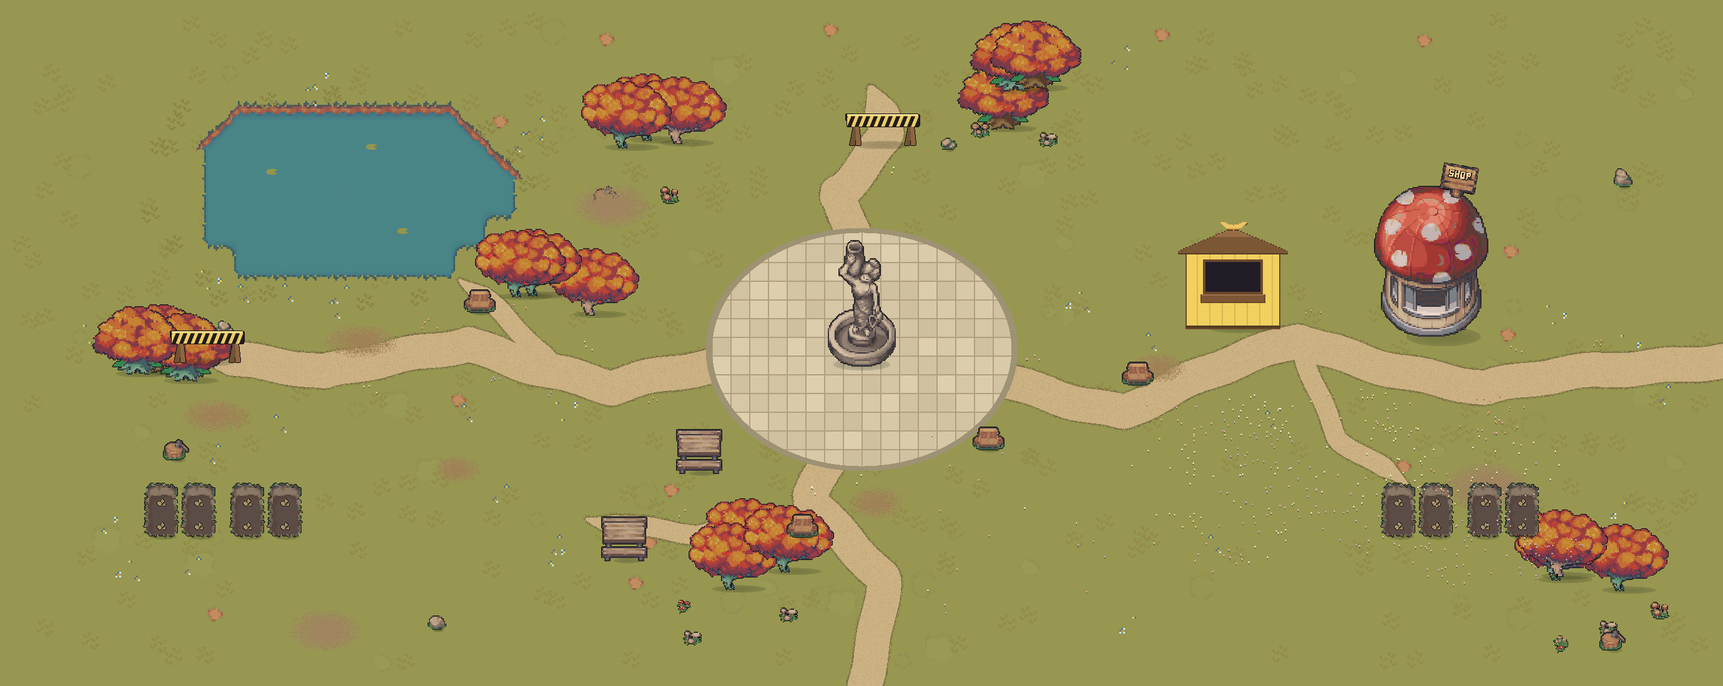
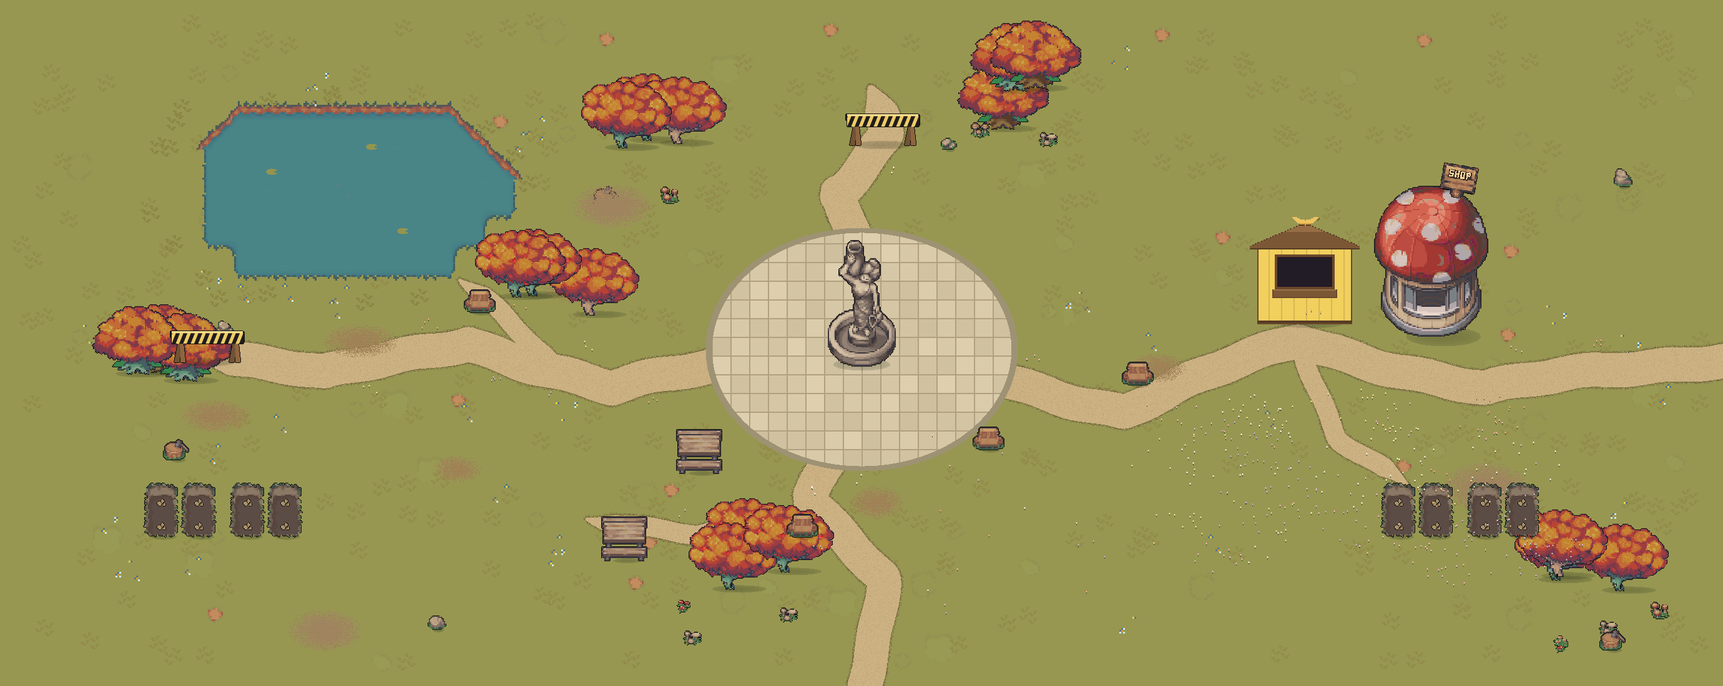
Stand moved to the east road's northward crest (MARKET.stand 1975,528 -> 2090,520; single-knob move - plates/geo/collider/keeper-window/sparkle/tap all follow; weed grid re-flowed)

Changed region(s): [[0.6855, 0.3091, 0.8101, 0.4945]]

diff --git a/src/scripts/park-geo.js b/src/scripts/park-geo.js
@@ -6,14 +6,14 @@ export const PLAZA = { x: 1380, y: 560, rx: 250, ry: 195 };
 export const ROAD_W = 88;
 export const POND = { x: 555, y: 315, rx: 265, ry: 150 };
 export const FOUNTAIN = [1380, 590, 109, 218, 6];
-export const MARKET = { stand: [1975, 528], cart: [2300, 545] };
+export const MARKET = { stand: [2090, 520], cart: [2300, 545] };
 export const SIGNS = [[332, 584], [1414, 236]];
 export const OLDBENCH = [1583, 722];
 export const MEADOW = [1860, 640, 2500, 940];
 export const PLOTS = [[2240, 800], [2240, 838], [2300, 800], [2300, 838], [2378, 800], [2378, 838], [2438, 800], [2438, 838], [258, 800], [258, 838], [318, 800], [318, 838], [396, 800], [396, 838], [456, 800], [456, 838]];
 export const DOORS = { south: { x: 1380, y: 1060 }, east: { x: 2700, y: 560 } };
-export const OB_RECTS = [[247, 562, 273, 598], [284, 576, 310, 612], [207, 565, 233, 601], [1029, 190, 1055, 226], [1078, 195, 1104, 231], [990, 202, 1016, 238], [1188, 871, 1214, 907], [1162, 910, 1188, 946], [1250, 882, 1276, 918], [1593, 172, 1619, 208], [1613, 111, 1639, 147], [1645, 107, 1671, 143], [2587, 912, 2613, 948], [2485, 895, 2511, 931], [2490, 889, 2516, 925], [938, 470, 964, 506], [846, 439, 872, 475], [820, 441, 846, 477], [1891, 472, 2059, 534], [2200, 487, 2400, 551], [2212, 812, 2268, 866], [2272, 812, 2328, 866], [2350, 812, 2406, 866], [2410, 812, 2466, 866], [230, 812, 286, 866], [290, 812, 346, 866], [368, 812, 424, 866], [428, 812, 484, 866], [1076, 730, 1164, 766], [956, 870, 1044, 906], [734, 484, 802, 506], [1788, 600, 1856, 622], [1251, 844, 1319, 866], [1549, 704, 1617, 726], [288, 566, 376, 588], [1370, 218, 1458, 240]];
+export const OB_RECTS = [[247, 562, 273, 598], [284, 576, 310, 612], [207, 565, 233, 601], [1029, 190, 1055, 226], [1078, 195, 1104, 231], [990, 202, 1016, 238], [1188, 871, 1214, 907], [1162, 910, 1188, 946], [1250, 882, 1276, 918], [1593, 172, 1619, 208], [1613, 111, 1639, 147], [1645, 107, 1671, 143], [2587, 912, 2613, 948], [2485, 895, 2511, 931], [2490, 889, 2516, 925], [938, 470, 964, 506], [846, 439, 872, 475], [820, 441, 846, 477], [2006, 464, 2174, 526], [2200, 487, 2400, 551], [2212, 812, 2268, 866], [2272, 812, 2328, 866], [2350, 812, 2406, 866], [2410, 812, 2466, 866], [230, 812, 286, 866], [290, 812, 346, 866], [368, 812, 424, 866], [428, 812, 484, 866], [1076, 730, 1164, 766], [956, 870, 1044, 906], [734, 484, 802, 506], [1788, 600, 1856, 622], [1251, 844, 1319, 866], [1549, 704, 1617, 726], [288, 566, 376, 588], [1370, 218, 1458, 240]];
 export const OB_CIRCLES = [[970, 332, 20], [2583, 1043, 20], [282, 738, 20], [1380, 570, 39], [360, 540, 20], [2600, 300, 20], [1520, 240, 20], [700, 1010, 20]];
-export const OVERLAYS = [['ov-0.png', 187, 488, 147, 110, 598], ['ov-1.png', 224, 502, 147, 110, 612], ['ov-2.png', 147, 491, 147, 110, 601], ['ov-3.png', 970, 118, 145, 108, 226], ['ov-4.png', 1019, 123, 145, 108, 231], ['ov-5.png', 931, 130, 145, 108, 238], ['ov-6.png', 1129, 799, 145, 108, 907], ['ov-7.png', 1103, 838, 145, 108, 946], ['ov-8.png', 1191, 810, 145, 108, 918], ['ov-9.png', 1533, 98, 147, 110, 208], ['ov-10.png', 1553, 37, 147, 110, 147], ['ov-11.png', 1585, 33, 147, 110, 143], ['ov-12.png', 2528, 840, 145, 108, 948], ['ov-13.png', 2426, 823, 145, 108, 931], ['ov-14.png', 2431, 817, 145, 108, 925], ['ov-15.png', 879, 398, 145, 108, 506], ['ov-16.png', 787, 367, 145, 108, 475], ['ov-17.png', 761, 369, 145, 108, 477], ['ov-18.png', 1887, 356, 176, 172, 528], ['ov-19.png', 2201, 260, 199, 285, 545], ['ov-20.png', 1083, 688, 74, 72, 760], ['ov-21.png', 963, 828, 74, 72, 900]];
+export const OVERLAYS = [['ov-0.png', 187, 488, 147, 110, 598], ['ov-1.png', 224, 502, 147, 110, 612], ['ov-2.png', 147, 491, 147, 110, 601], ['ov-3.png', 970, 118, 145, 108, 226], ['ov-4.png', 1019, 123, 145, 108, 231], ['ov-5.png', 931, 130, 145, 108, 238], ['ov-6.png', 1129, 799, 145, 108, 907], ['ov-7.png', 1103, 838, 145, 108, 946], ['ov-8.png', 1191, 810, 145, 108, 918], ['ov-9.png', 1533, 98, 147, 110, 208], ['ov-10.png', 1553, 37, 147, 110, 147], ['ov-11.png', 1585, 33, 147, 110, 143], ['ov-12.png', 2528, 840, 145, 108, 948], ['ov-13.png', 2426, 823, 145, 108, 931], ['ov-14.png', 2431, 817, 145, 108, 925], ['ov-15.png', 879, 398, 145, 108, 506], ['ov-16.png', 787, 367, 145, 108, 475], ['ov-17.png', 761, 369, 145, 108, 477], ['ov-18.png', 2002, 348, 176, 172, 520], ['ov-19.png', 2201, 260, 199, 285, 545], ['ov-20.png', 1083, 688, 74, 72, 760], ['ov-21.png', 963, 828, 74, 72, 900]];
 export const TREE_OVS = [0, 1, 2, 3, 4, 5, 6, 7, 8, 9, 10, 11, 12, 13, 14, 15, 16, 17];
-export const WEED_GRID = [[120,120],[168,120],[216,120],[264,120],[312,120],[360,120],[408,120],[456,120],[648,120],[696,120],[744,120],[792,120],[840,120],[888,120],[936,120],[984,120],[1032,120],[1080,120],[1128,120],[1176,120],[1224,120],[1272,120],[1320,120],[1464,120],[1512,120],[1560,120],[1704,120],[1752,120],[1800,120],[1848,120],[1896,120],[1944,120],[1992,120],[2040,120],[2088,120],[2136,120],[2184,120],[2232,120],[2280,120],[2328,120],[2376,120],[2424,120],[2472,120],[2520,120],[2568,120],[2616,120],[120,168],[168,168],[216,168],[264,168],[312,168],[792,168],[840,168],[888,168],[936,168],[984,168],[1032,168],[1080,168],[1128,168],[1176,168],[1224,168],[1272,168],[1320,168],[1512,168],[1560,168],[1656,168],[1704,168],[1752,168],[1800,168],[1848,168],[1896,168],[1944,168],[1992,168],[2040,168],[2088,168],[2136,168],[2184,168],[2232,168],[2280,168],[2328,168],[2376,168],[2424,168],[2472,168],[2520,168],[2568,168],[2616,168],[120,216],[168,216],[216,216],[264,216],[840,216],[888,216],[936,216],[1128,216],[1176,216],[1224,216],[1272,216],[1320,216],[1560,216],[1656,216],[1704,216],[1752,216],[1800,216],[1848,216],[1896,216],[1944,216],[1992,216],[2040,216],[2088,216],[2136,216],[2184,216],[2232,216],[2280,216],[2328,216],[2376,216],[2424,216],[2472,216],[2520,216],[2568,216],[2616,216],[120,264],[168,264],[216,264],[888,264],[936,264],[984,264],[1032,264],[1080,264],[1128,264],[1176,264],[1224,264],[1272,264],[1464,264],[1560,264],[1608,264],[1656,264],[1704,264],[1752,264],[1800,264],[1848,264],[1896,264],[1944,264],[1992,264],[2040,264],[2088,264],[2136,264],[2184,264],[2232,264],[2280,264],[2328,264],[2376,264],[2424,264],[2472,264],[2520,264],[2568,264],[2616,264],[120,312],[168,312],[216,312],[888,312],[936,312],[1032,312],[1080,312],[1128,312],[1176,312],[1224,312],[1272,312],[1464,312],[1512,312],[1560,312],[1608,312],[1656,312],[1704,312],[1752,312],[1800,312],[1848,312],[1896,312],[1944,312],[1992,312],[2040,312],[2088,312],[2136,312],[2184,312],[2232,312],[2280,312],[2328,312],[2376,312],[2424,312],[2472,312],[2520,312],[120,360],[168,360],[216,360],[888,360],[936,360],[1032,360],[1080,360],[1128,360],[1176,360],[1224,360],[1560,360],[1608,360],[1656,360],[1704,360],[1752,360],[1800,360],[1848,360],[1896,360],[1944,360],[1992,360],[2040,360],[2088,360],[2136,360],[2184,360],[2232,360],[2280,360],[2328,360],[2376,360],[2424,360],[2472,360],[2520,360],[2568,360],[2616,360],[120,408],[168,408],[216,408],[264,408],[840,408],[888,408],[936,408],[984,408],[1032,408],[1080,408],[1128,408],[1608,408],[1656,408],[1704,408],[1752,408],[1800,408],[1848,408],[1896,408],[1944,408],[1992,408],[2040,408],[2088,408],[2136,408],[2184,408],[2232,408],[2280,408],[2328,408],[2376,408],[2424,408],[2472,408],[2520,408],[2568,408],[2616,408],[120,456],[168,456],[216,456],[264,456],[312,456],[984,456],[1032,456],[1080,456],[1656,456],[1704,456],[1752,456],[1800,456],[1848,456],[2088,456],[2136,456],[2184,456],[2232,456],[2280,456],[2328,456],[2376,456],[2424,456],[2472,456],[2520,456],[2568,456],[2616,456],[120,504],[168,504],[216,504],[264,504],[312,504],[360,504],[408,504],[888,504],[984,504],[1032,504],[1080,504],[1704,504],[1752,504],[1800,504],[1848,504],[2424,504],[2472,504],[2520,504],[2568,504],[2616,504],[120,552],[168,552],[984,552],[1704,552],[1752,552],[1800,552],[1848,552],[2424,552],[120,600],[168,600],[120,648],[168,648],[216,648],[264,648],[312,648],[360,648],[408,648],[456,648],[600,648],[648,648],[696,648],[744,648],[792,648],[840,648],[1992,648],[2040,648],[2184,648],[120,696],[168,696],[216,696],[264,696],[312,696],[360,696],[408,696],[456,696],[504,696],[552,696],[600,696],[648,696],[696,696],[744,696],[792,696],[840,696],[888,696],[936,696],[984,696],[1032,696],[1080,696],[1128,696],[1656,696],[1896,696],[1944,696],[1992,696],[2040,696],[2232,696],[2280,696],[2328,696],[2376,696],[2424,696],[2472,696],[2520,696],[2568,696],[2616,696],[120,744],[168,744],[216,744],[360,744],[408,744],[456,744],[504,744],[552,744],[600,744],[648,744],[696,744],[744,744],[792,744],[840,744],[888,744],[936,744],[984,744],[1032,744],[1608,744],[1656,744],[1704,744],[1752,744],[1800,744],[1848,744],[1896,744],[1944,744],[1992,744],[2040,744],[2088,744],[2280,744],[2328,744],[2376,744],[2424,744],[2472,744],[2520,744],[2568,744],[2616,744],[120,792],[168,792],[552,792],[600,792],[648,792],[696,792],[744,792],[792,792],[840,792],[888,792],[936,792],[984,792],[1032,792],[1080,792],[1128,792],[1176,792],[1224,792],[1464,792],[1512,792],[1560,792],[1608,792],[1656,792],[1704,792],[1752,792],[1800,792],[1848,792],[1896,792],[1944,792],[1992,792],[2040,792],[2088,792],[2136,792],[2520,792],[2568,792],[2616,792],[120,840],[168,840],[552,840],[600,840],[648,840],[696,840],[744,840],[792,840],[840,840],[888,840],[1464,840],[1512,840],[1560,840],[1608,840],[1656,840],[1704,840],[1752,840],[1800,840],[1848,840],[1896,840],[1944,840],[1992,840],[2040,840],[2088,840],[2136,840],[2520,840],[2568,840],[2616,840],[120,888],[168,888],[552,888],[600,888],[648,888],[696,888],[744,888],[792,888],[840,888],[888,888],[936,888],[1512,888],[1560,888],[1608,888],[1656,888],[1704,888],[1752,888],[1800,888],[1848,888],[1896,888],[1944,888],[1992,888],[2040,888],[2088,888],[2136,888],[2568,888],[2616,888],[120,936],[168,936],[216,936],[264,936],[312,936],[360,936],[408,936],[456,936],[504,936],[552,936],[600,936],[648,936],[696,936],[744,936],[792,936],[840,936],[888,936],[936,936],[984,936],[1032,936],[1080,936],[1128,936],[1224,936],[1272,936],[1320,936],[1512,936],[1560,936],[1608,936],[1656,936],[1704,936],[1752,936],[1800,936],[1848,936],[1896,936],[1944,936],[1992,936],[2040,936],[2088,936],[2136,936],[2184,936],[2232,936],[2280,936],[2328,936],[2376,936],[2424,936],[2568,936]];
+export const WEED_GRID = [[120,120],[168,120],[216,120],[264,120],[312,120],[360,120],[408,120],[456,120],[648,120],[696,120],[744,120],[792,120],[840,120],[888,120],[936,120],[984,120],[1032,120],[1080,120],[1128,120],[1176,120],[1224,120],[1272,120],[1320,120],[1464,120],[1512,120],[1560,120],[1704,120],[1752,120],[1800,120],[1848,120],[1896,120],[1944,120],[1992,120],[2040,120],[2088,120],[2136,120],[2184,120],[2232,120],[2280,120],[2328,120],[2376,120],[2424,120],[2472,120],[2520,120],[2568,120],[2616,120],[120,168],[168,168],[216,168],[264,168],[312,168],[792,168],[840,168],[888,168],[936,168],[984,168],[1032,168],[1080,168],[1128,168],[1176,168],[1224,168],[1272,168],[1320,168],[1512,168],[1560,168],[1656,168],[1704,168],[1752,168],[1800,168],[1848,168],[1896,168],[1944,168],[1992,168],[2040,168],[2088,168],[2136,168],[2184,168],[2232,168],[2280,168],[2328,168],[2376,168],[2424,168],[2472,168],[2520,168],[2568,168],[2616,168],[120,216],[168,216],[216,216],[264,216],[840,216],[888,216],[936,216],[1128,216],[1176,216],[1224,216],[1272,216],[1320,216],[1560,216],[1656,216],[1704,216],[1752,216],[1800,216],[1848,216],[1896,216],[1944,216],[1992,216],[2040,216],[2088,216],[2136,216],[2184,216],[2232,216],[2280,216],[2328,216],[2376,216],[2424,216],[2472,216],[2520,216],[2568,216],[2616,216],[120,264],[168,264],[216,264],[888,264],[936,264],[984,264],[1032,264],[1080,264],[1128,264],[1176,264],[1224,264],[1272,264],[1464,264],[1560,264],[1608,264],[1656,264],[1704,264],[1752,264],[1800,264],[1848,264],[1896,264],[1944,264],[1992,264],[2040,264],[2088,264],[2136,264],[2184,264],[2232,264],[2280,264],[2328,264],[2376,264],[2424,264],[2472,264],[2520,264],[2568,264],[2616,264],[120,312],[168,312],[216,312],[888,312],[936,312],[1032,312],[1080,312],[1128,312],[1176,312],[1224,312],[1272,312],[1464,312],[1512,312],[1560,312],[1608,312],[1656,312],[1704,312],[1752,312],[1800,312],[1848,312],[1896,312],[1944,312],[1992,312],[2040,312],[2088,312],[2136,312],[2184,312],[2232,312],[2280,312],[2328,312],[2376,312],[2424,312],[2472,312],[2520,312],[120,360],[168,360],[216,360],[888,360],[936,360],[1032,360],[1080,360],[1128,360],[1176,360],[1224,360],[1560,360],[1608,360],[1656,360],[1704,360],[1752,360],[1800,360],[1848,360],[1896,360],[1944,360],[1992,360],[2040,360],[2088,360],[2136,360],[2184,360],[2232,360],[2280,360],[2328,360],[2376,360],[2424,360],[2472,360],[2520,360],[2568,360],[2616,360],[120,408],[168,408],[216,408],[264,408],[840,408],[888,408],[936,408],[984,408],[1032,408],[1080,408],[1128,408],[1608,408],[1656,408],[1704,408],[1752,408],[1800,408],[1848,408],[1896,408],[1944,408],[1992,408],[2040,408],[2088,408],[2136,408],[2184,408],[2232,408],[2280,408],[2328,408],[2376,408],[2424,408],[2472,408],[2520,408],[2568,408],[2616,408],[120,456],[168,456],[216,456],[264,456],[312,456],[984,456],[1032,456],[1080,456],[1656,456],[1704,456],[1752,456],[1800,456],[1848,456],[1896,456],[1944,456],[2232,456],[2280,456],[2328,456],[2376,456],[2424,456],[2472,456],[2520,456],[2568,456],[2616,456],[120,504],[168,504],[216,504],[264,504],[312,504],[360,504],[408,504],[888,504],[984,504],[1032,504],[1080,504],[1704,504],[1752,504],[1800,504],[1848,504],[1896,504],[1944,504],[2424,504],[2472,504],[2520,504],[2568,504],[2616,504],[120,552],[168,552],[984,552],[1704,552],[1752,552],[1800,552],[1848,552],[2424,552],[120,600],[168,600],[120,648],[168,648],[216,648],[264,648],[312,648],[360,648],[408,648],[456,648],[600,648],[648,648],[696,648],[744,648],[792,648],[840,648],[1992,648],[2040,648],[2184,648],[120,696],[168,696],[216,696],[264,696],[312,696],[360,696],[408,696],[456,696],[504,696],[552,696],[600,696],[648,696],[696,696],[744,696],[792,696],[840,696],[888,696],[936,696],[984,696],[1032,696],[1080,696],[1128,696],[1656,696],[1896,696],[1944,696],[1992,696],[2040,696],[2232,696],[2280,696],[2328,696],[2376,696],[2424,696],[2472,696],[2520,696],[2568,696],[2616,696],[120,744],[168,744],[216,744],[360,744],[408,744],[456,744],[504,744],[552,744],[600,744],[648,744],[696,744],[744,744],[792,744],[840,744],[888,744],[936,744],[984,744],[1032,744],[1608,744],[1656,744],[1704,744],[1752,744],[1800,744],[1848,744],[1896,744],[1944,744],[1992,744],[2040,744],[2088,744],[2280,744],[2328,744],[2376,744],[2424,744],[2472,744],[2520,744],[2568,744],[2616,744],[120,792],[168,792],[552,792],[600,792],[648,792],[696,792],[744,792],[792,792],[840,792],[888,792],[936,792],[984,792],[1032,792],[1080,792],[1128,792],[1176,792],[1224,792],[1464,792],[1512,792],[1560,792],[1608,792],[1656,792],[1704,792],[1752,792],[1800,792],[1848,792],[1896,792],[1944,792],[1992,792],[2040,792],[2088,792],[2136,792],[2520,792],[2568,792],[2616,792],[120,840],[168,840],[552,840],[600,840],[648,840],[696,840],[744,840],[792,840],[840,840],[888,840],[1464,840],[1512,840],[1560,840],[1608,840],[1656,840],[1704,840],[1752,840],[1800,840],[1848,840],[1896,840],[1944,840],[1992,840],[2040,840],[2088,840],[2136,840],[2520,840],[2568,840],[2616,840],[120,888],[168,888],[552,888],[600,888],[648,888],[696,888],[744,888],[792,888],[840,888],[888,888],[936,888],[1512,888],[1560,888],[1608,888],[1656,888],[1704,888],[1752,888],[1800,888],[1848,888],[1896,888],[1944,888],[1992,888],[2040,888],[2088,888],[2136,888],[2568,888],[2616,888],[120,936],[168,936],[216,936],[264,936],[312,936],[360,936],[408,936],[456,936],[504,936],[552,936],[600,936],[648,936],[696,936],[744,936],[792,936],[840,936],[888,936],[936,936],[984,936],[1032,936],[1080,936],[1128,936],[1224,936],[1272,936],[1320,936],[1512,936],[1560,936],[1608,936],[1656,936],[1704,936],[1752,936],[1800,936],[1848,936],[1896,936],[1944,936],[1992,936],[2040,936],[2088,936],[2136,936],[2184,936],[2232,936],[2280,936],[2328,936],[2376,936],[2424,936],[2568,936]];

diff --git a/worker-rave/src/park-weed-grid.js b/worker-rave/src/park-weed-grid.js
@@ -1,3 +1,3 @@
 // GENERATED by tools/build-park-scene.py — the park weed lattice.
 // DO NOT EDIT (twin of WEED_GRID in src/scripts/park-geo.js).
-export const WEED_GRID = [[120,120],[168,120],[216,120],[264,120],[312,120],[360,120],[408,120],[456,120],[648,120],[696,120],[744,120],[792,120],[840,120],[888,120],[936,120],[984,120],[1032,120],[1080,120],[1128,120],[1176,120],[1224,120],[1272,120],[1320,120],[1464,120],[1512,120],[1560,120],[1704,120],[1752,120],[1800,120],[1848,120],[1896,120],[1944,120],[1992,120],[2040,120],[2088,120],[2136,120],[2184,120],[2232,120],[2280,120],[2328,120],[2376,120],[2424,120],[2472,120],[2520,120],[2568,120],[2616,120],[120,168],[168,168],[216,168],[264,168],[312,168],[792,168],[840,168],[888,168],[936,168],[984,168],[1032,168],[1080,168],[1128,168],[1176,168],[1224,168],[1272,168],[1320,168],[1512,168],[1560,168],[1656,168],[1704,168],[1752,168],[1800,168],[1848,168],[1896,168],[1944,168],[1992,168],[2040,168],[2088,168],[2136,168],[2184,168],[2232,168],[2280,168],[2328,168],[2376,168],[2424,168],[2472,168],[2520,168],[2568,168],[2616,168],[120,216],[168,216],[216,216],[264,216],[840,216],[888,216],[936,216],[1128,216],[1176,216],[1224,216],[1272,216],[1320,216],[1560,216],[1656,216],[1704,216],[1752,216],[1800,216],[1848,216],[1896,216],[1944,216],[1992,216],[2040,216],[2088,216],[2136,216],[2184,216],[2232,216],[2280,216],[2328,216],[2376,216],[2424,216],[2472,216],[2520,216],[2568,216],[2616,216],[120,264],[168,264],[216,264],[888,264],[936,264],[984,264],[1032,264],[1080,264],[1128,264],[1176,264],[1224,264],[1272,264],[1464,264],[1560,264],[1608,264],[1656,264],[1704,264],[1752,264],[1800,264],[1848,264],[1896,264],[1944,264],[1992,264],[2040,264],[2088,264],[2136,264],[2184,264],[2232,264],[2280,264],[2328,264],[2376,264],[2424,264],[2472,264],[2520,264],[2568,264],[2616,264],[120,312],[168,312],[216,312],[888,312],[936,312],[1032,312],[1080,312],[1128,312],[1176,312],[1224,312],[1272,312],[1464,312],[1512,312],[1560,312],[1608,312],[1656,312],[1704,312],[1752,312],[1800,312],[1848,312],[1896,312],[1944,312],[1992,312],[2040,312],[2088,312],[2136,312],[2184,312],[2232,312],[2280,312],[2328,312],[2376,312],[2424,312],[2472,312],[2520,312],[120,360],[168,360],[216,360],[888,360],[936,360],[1032,360],[1080,360],[1128,360],[1176,360],[1224,360],[1560,360],[1608,360],[1656,360],[1704,360],[1752,360],[1800,360],[1848,360],[1896,360],[1944,360],[1992,360],[2040,360],[2088,360],[2136,360],[2184,360],[2232,360],[2280,360],[2328,360],[2376,360],[2424,360],[2472,360],[2520,360],[2568,360],[2616,360],[120,408],[168,408],[216,408],[264,408],[840,408],[888,408],[936,408],[984,408],[1032,408],[1080,408],[1128,408],[1608,408],[1656,408],[1704,408],[1752,408],[1800,408],[1848,408],[1896,408],[1944,408],[1992,408],[2040,408],[2088,408],[2136,408],[2184,408],[2232,408],[2280,408],[2328,408],[2376,408],[2424,408],[2472,408],[2520,408],[2568,408],[2616,408],[120,456],[168,456],[216,456],[264,456],[312,456],[984,456],[1032,456],[1080,456],[1656,456],[1704,456],[1752,456],[1800,456],[1848,456],[2088,456],[2136,456],[2184,456],[2232,456],[2280,456],[2328,456],[2376,456],[2424,456],[2472,456],[2520,456],[2568,456],[2616,456],[120,504],[168,504],[216,504],[264,504],[312,504],[360,504],[408,504],[888,504],[984,504],[1032,504],[1080,504],[1704,504],[1752,504],[1800,504],[1848,504],[2424,504],[2472,504],[2520,504],[2568,504],[2616,504],[120,552],[168,552],[984,552],[1704,552],[1752,552],[1800,552],[1848,552],[2424,552],[120,600],[168,600],[120,648],[168,648],[216,648],[264,648],[312,648],[360,648],[408,648],[456,648],[600,648],[648,648],[696,648],[744,648],[792,648],[840,648],[1992,648],[2040,648],[2184,648],[120,696],[168,696],[216,696],[264,696],[312,696],[360,696],[408,696],[456,696],[504,696],[552,696],[600,696],[648,696],[696,696],[744,696],[792,696],[840,696],[888,696],[936,696],[984,696],[1032,696],[1080,696],[1128,696],[1656,696],[1896,696],[1944,696],[1992,696],[2040,696],[2232,696],[2280,696],[2328,696],[2376,696],[2424,696],[2472,696],[2520,696],[2568,696],[2616,696],[120,744],[168,744],[216,744],[360,744],[408,744],[456,744],[504,744],[552,744],[600,744],[648,744],[696,744],[744,744],[792,744],[840,744],[888,744],[936,744],[984,744],[1032,744],[1608,744],[1656,744],[1704,744],[1752,744],[1800,744],[1848,744],[1896,744],[1944,744],[1992,744],[2040,744],[2088,744],[2280,744],[2328,744],[2376,744],[2424,744],[2472,744],[2520,744],[2568,744],[2616,744],[120,792],[168,792],[552,792],[600,792],[648,792],[696,792],[744,792],[792,792],[840,792],[888,792],[936,792],[984,792],[1032,792],[1080,792],[1128,792],[1176,792],[1224,792],[1464,792],[1512,792],[1560,792],[1608,792],[1656,792],[1704,792],[1752,792],[1800,792],[1848,792],[1896,792],[1944,792],[1992,792],[2040,792],[2088,792],[2136,792],[2520,792],[2568,792],[2616,792],[120,840],[168,840],[552,840],[600,840],[648,840],[696,840],[744,840],[792,840],[840,840],[888,840],[1464,840],[1512,840],[1560,840],[1608,840],[1656,840],[1704,840],[1752,840],[1800,840],[1848,840],[1896,840],[1944,840],[1992,840],[2040,840],[2088,840],[2136,840],[2520,840],[2568,840],[2616,840],[120,888],[168,888],[552,888],[600,888],[648,888],[696,888],[744,888],[792,888],[840,888],[888,888],[936,888],[1512,888],[1560,888],[1608,888],[1656,888],[1704,888],[1752,888],[1800,888],[1848,888],[1896,888],[1944,888],[1992,888],[2040,888],[2088,888],[2136,888],[2568,888],[2616,888],[120,936],[168,936],[216,936],[264,936],[312,936],[360,936],[408,936],[456,936],[504,936],[552,936],[600,936],[648,936],[696,936],[744,936],[792,936],[840,936],[888,936],[936,936],[984,936],[1032,936],[1080,936],[1128,936],[1224,936],[1272,936],[1320,936],[1512,936],[1560,936],[1608,936],[1656,936],[1704,936],[1752,936],[1800,936],[1848,936],[1896,936],[1944,936],[1992,936],[2040,936],[2088,936],[2136,936],[2184,936],[2232,936],[2280,936],[2328,936],[2376,936],[2424,936],[2568,936]];
+export const WEED_GRID = [[120,120],[168,120],[216,120],[264,120],[312,120],[360,120],[408,120],[456,120],[648,120],[696,120],[744,120],[792,120],[840,120],[888,120],[936,120],[984,120],[1032,120],[1080,120],[1128,120],[1176,120],[1224,120],[1272,120],[1320,120],[1464,120],[1512,120],[1560,120],[1704,120],[1752,120],[1800,120],[1848,120],[1896,120],[1944,120],[1992,120],[2040,120],[2088,120],[2136,120],[2184,120],[2232,120],[2280,120],[2328,120],[2376,120],[2424,120],[2472,120],[2520,120],[2568,120],[2616,120],[120,168],[168,168],[216,168],[264,168],[312,168],[792,168],[840,168],[888,168],[936,168],[984,168],[1032,168],[1080,168],[1128,168],[1176,168],[1224,168],[1272,168],[1320,168],[1512,168],[1560,168],[1656,168],[1704,168],[1752,168],[1800,168],[1848,168],[1896,168],[1944,168],[1992,168],[2040,168],[2088,168],[2136,168],[2184,168],[2232,168],[2280,168],[2328,168],[2376,168],[2424,168],[2472,168],[2520,168],[2568,168],[2616,168],[120,216],[168,216],[216,216],[264,216],[840,216],[888,216],[936,216],[1128,216],[1176,216],[1224,216],[1272,216],[1320,216],[1560,216],[1656,216],[1704,216],[1752,216],[1800,216],[1848,216],[1896,216],[1944,216],[1992,216],[2040,216],[2088,216],[2136,216],[2184,216],[2232,216],[2280,216],[2328,216],[2376,216],[2424,216],[2472,216],[2520,216],[2568,216],[2616,216],[120,264],[168,264],[216,264],[888,264],[936,264],[984,264],[1032,264],[1080,264],[1128,264],[1176,264],[1224,264],[1272,264],[1464,264],[1560,264],[1608,264],[1656,264],[1704,264],[1752,264],[1800,264],[1848,264],[1896,264],[1944,264],[1992,264],[2040,264],[2088,264],[2136,264],[2184,264],[2232,264],[2280,264],[2328,264],[2376,264],[2424,264],[2472,264],[2520,264],[2568,264],[2616,264],[120,312],[168,312],[216,312],[888,312],[936,312],[1032,312],[1080,312],[1128,312],[1176,312],[1224,312],[1272,312],[1464,312],[1512,312],[1560,312],[1608,312],[1656,312],[1704,312],[1752,312],[1800,312],[1848,312],[1896,312],[1944,312],[1992,312],[2040,312],[2088,312],[2136,312],[2184,312],[2232,312],[2280,312],[2328,312],[2376,312],[2424,312],[2472,312],[2520,312],[120,360],[168,360],[216,360],[888,360],[936,360],[1032,360],[1080,360],[1128,360],[1176,360],[1224,360],[1560,360],[1608,360],[1656,360],[1704,360],[1752,360],[1800,360],[1848,360],[1896,360],[1944,360],[1992,360],[2040,360],[2088,360],[2136,360],[2184,360],[2232,360],[2280,360],[2328,360],[2376,360],[2424,360],[2472,360],[2520,360],[2568,360],[2616,360],[120,408],[168,408],[216,408],[264,408],[840,408],[888,408],[936,408],[984,408],[1032,408],[1080,408],[1128,408],[1608,408],[1656,408],[1704,408],[1752,408],[1800,408],[1848,408],[1896,408],[1944,408],[1992,408],[2040,408],[2088,408],[2136,408],[2184,408],[2232,408],[2280,408],[2328,408],[2376,408],[2424,408],[2472,408],[2520,408],[2568,408],[2616,408],[120,456],[168,456],[216,456],[264,456],[312,456],[984,456],[1032,456],[1080,456],[1656,456],[1704,456],[1752,456],[1800,456],[1848,456],[1896,456],[1944,456],[2232,456],[2280,456],[2328,456],[2376,456],[2424,456],[2472,456],[2520,456],[2568,456],[2616,456],[120,504],[168,504],[216,504],[264,504],[312,504],[360,504],[408,504],[888,504],[984,504],[1032,504],[1080,504],[1704,504],[1752,504],[1800,504],[1848,504],[1896,504],[1944,504],[2424,504],[2472,504],[2520,504],[2568,504],[2616,504],[120,552],[168,552],[984,552],[1704,552],[1752,552],[1800,552],[1848,552],[2424,552],[120,600],[168,600],[120,648],[168,648],[216,648],[264,648],[312,648],[360,648],[408,648],[456,648],[600,648],[648,648],[696,648],[744,648],[792,648],[840,648],[1992,648],[2040,648],[2184,648],[120,696],[168,696],[216,696],[264,696],[312,696],[360,696],[408,696],[456,696],[504,696],[552,696],[600,696],[648,696],[696,696],[744,696],[792,696],[840,696],[888,696],[936,696],[984,696],[1032,696],[1080,696],[1128,696],[1656,696],[1896,696],[1944,696],[1992,696],[2040,696],[2232,696],[2280,696],[2328,696],[2376,696],[2424,696],[2472,696],[2520,696],[2568,696],[2616,696],[120,744],[168,744],[216,744],[360,744],[408,744],[456,744],[504,744],[552,744],[600,744],[648,744],[696,744],[744,744],[792,744],[840,744],[888,744],[936,744],[984,744],[1032,744],[1608,744],[1656,744],[1704,744],[1752,744],[1800,744],[1848,744],[1896,744],[1944,744],[1992,744],[2040,744],[2088,744],[2280,744],[2328,744],[2376,744],[2424,744],[2472,744],[2520,744],[2568,744],[2616,744],[120,792],[168,792],[552,792],[600,792],[648,792],[696,792],[744,792],[792,792],[840,792],[888,792],[936,792],[984,792],[1032,792],[1080,792],[1128,792],[1176,792],[1224,792],[1464,792],[1512,792],[1560,792],[1608,792],[1656,792],[1704,792],[1752,792],[1800,792],[1848,792],[1896,792],[1944,792],[1992,792],[2040,792],[2088,792],[2136,792],[2520,792],[2568,792],[2616,792],[120,840],[168,840],[552,840],[600,840],[648,840],[696,840],[744,840],[792,840],[840,840],[888,840],[1464,840],[1512,840],[1560,840],[1608,840],[1656,840],[1704,840],[1752,840],[1800,840],[1848,840],[1896,840],[1944,840],[1992,840],[2040,840],[2088,840],[2136,840],[2520,840],[2568,840],[2616,840],[120,888],[168,888],[552,888],[600,888],[648,888],[696,888],[744,888],[792,888],[840,888],[888,888],[936,888],[1512,888],[1560,888],[1608,888],[1656,888],[1704,888],[1752,888],[1800,888],[1848,888],[1896,888],[1944,888],[1992,888],[2040,888],[2088,888],[2136,888],[2568,888],[2616,888],[120,936],[168,936],[216,936],[264,936],[312,936],[360,936],[408,936],[456,936],[504,936],[552,936],[600,936],[648,936],[696,936],[744,936],[792,936],[840,936],[888,936],[936,936],[984,936],[1032,936],[1080,936],[1128,936],[1224,936],[1272,936],[1320,936],[1512,936],[1560,936],[1608,936],[1656,936],[1704,936],[1752,936],[1800,936],[1848,936],[1896,936],[1944,936],[1992,936],[2040,936],[2088,936],[2136,936],[2184,936],[2232,936],[2280,936],[2328,936],[2376,936],[2424,936],[2568,936]];

diff --git a/tools/build-park-scene.py b/tools/build-park-scene.py
@@ -879,9 +879,11 @@ if HAVE_PACK:
     # untouched (no blockify/dedisc — it is already on-palette pixel art),
     # ×2 NEAREST so the chunky pixels stay true next to the heroic banana;
     # a dark inner rect backs the window cutout (the old page's DOM div).
-    # carts sit just off the beach road's north shoulder, following its dips
-    # (the road curves now — placement tracks the waypoints, not MARKET_Y)
-    MARKET['stand'] = (1975, 528)
+    # perched at the east road's northward crest (waypoint 2080,545 — Trym),
+    # hugging the north shoulder without spilling into the lane; the client's
+    # sparkle/tap/keeper-window all key off MARKET.stand, so this tuple is
+    # the ONE knob
+    MARKET['stand'] = (2090, 520)
     try:
         hut = Image.open(os.path.join(SITE, 'public', 'assets', 'banana-stand',
                                       'hut.png')).convert('RGBA')
@@ -892,7 +894,8 @@ if HAVE_PACK:
         back.alpha_composite(hut)
         hut = back.resize((hut.width * 2, hut.height * 2), Image.NEAREST)
         _cache[('bs-hut', 1, 28, 0.0, 1.0, 1.0)] = hut
-        place('bs-hut', 1975, 528, solid=STAND_BOX, layer=True, colors=28, scale=1.0)
+        place('bs-hut', MARKET['stand'][0], MARKET['stand'][1],
+              solid=STAND_BOX, layer=True, colors=28, scale=1.0)
         print('  stand hut placed (%dx%d)' % hut.size)
     except Exception as e:
         print('  stand hut failed', e)
